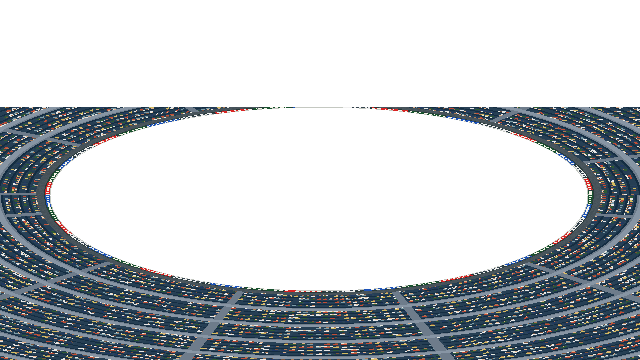
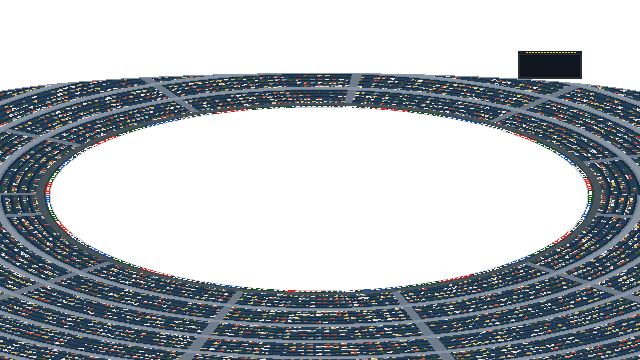
WIP (for testing, not merged): Curve venue scenery around the far boundary too
Extend the generated rim above the far rope with an arched upper terrace, covering the former straight fence and joining the side seating. Reapply the original Lord's and SCG pavilion sprites, Media Centre and scoreboard frames in front of the bowl at their existing positions. Regenerate all six venue overlays and ignore Python helper caches.

Verified gap-free far arcs, transparent playable field pixels, exact pavilion pixels and deterministic regeneration from another directory. All three camera tests and single-file build pass. Browser screenshots reviewed for six venues and a narrow viewport; inner-field pixels stay unchanged. A delivery and fielder drag pass without page errors or failed assets. Camera geometry and simulation remain unchanged.

Changed region(s): [[0.0, 0.1222, 1.0, 0.3056]]

diff --git a/tools/art/make_perimeters.py b/tools/art/make_perimeters.py
@@ -7,6 +7,8 @@ from pathlib import Path
 import math
 import re
 from PIL import Image, ImageDraw, ImageChops
+from make_lords import pavilion as lords_pavilion, media_pod
+from make_scg import pavilion as scg_pavilion
 
 ROOT = Path(__file__).resolve().parents[2]
 W, H = 640, 360
@@ -125,13 +127,46 @@ def pine(d, x, y, height):
                    (x + width, y - 3 + offset // 2)], fill="#183b29" if offset % 8 else "#254a30")
 
 
-def make(venue):
+def far_rim_top(x):
+    """The outer far terrace curves above the rope, covering the old straight fence."""
+    far_rope = ROPE["cy"] - ROPE["ryFar"]
+    across = (x - ROPE["cx"]) / (ROPE["rx"] + 94)
+    return round(far_rope - 34 * math.sqrt(max(0, 1 - across * across)))
+
+
+def landmarks(image, name):
+    """Keep distinctive buildings in front of the bowl, at their existing coordinates."""
+    if name == "lords":
+        image.alpha_composite(lords_pavilion(220, 44), (86, 51))
+        media_pod(image, 452, 51, 98, 24, 95)
+    elif name == "scg":
+        image.alpha_composite(scg_pavilion(170, True).resize((113, 44), Image.Resampling.NEAREST), (65, 42))
+        image.alpha_composite(scg_pavilion(137).resize((93, 39), Image.Resampling.NEAREST), (179, 47))
+    # These small, rectangular structures already contain the correctly placed
+    # score faces. Copy their frames too, so live text stays anchored to the art.
+    boards = {
+        "parklands": ("assets/wide/stands.png", (525, 4, 585, 46), (525, 55)),
+        "parklands-boards": ("assets/wide/stands.png", (525, 4, 585, 46), (525, 55)),
+        "mcg": ("assets/theg/wide/stands.png", (518, 5, 582, 33), (518, 51)),
+        "lords": ("assets/wide/lords-stands.png", (559, 12, 629, 42), (559, 63)),
+        "lakshmi": ("assets/wide/lakshmi-foothills.png", (518, 44, 582, 70), (518, 62)),
+    }
+    if name in boards:
+        path, box, at = boards[name]
+        with Image.open(ROOT / path) as source:
+            image.alpha_composite(source.convert("RGBA").crop(box), at)
+
+
+def make(venue, name):
     image = Image.new("RGBA", (W, H), (0, 0, 0, 0))
     mask = Image.new("L", (W, H), 0)
     pixels, alpha = image.load(), mask.load()
-    top = round(ROPE["cy"] - ROPE["ryFar"])
+    tops = [far_rim_top(x) for x in range(W)]
+    top = min(tops)
     for y in range(top, H):
         for x in range(W):
+            if y < tops[x]:
+                continue
             radius, depth, angle = location(x, y)
             if radius <= 1:
                 continue
@@ -142,6 +177,8 @@ def make(venue):
                 colour = highland_bank(depth, around, x, y)
             else:
                 colour = seating(depth, around, venue)
+            if y == tops[x]:
+                colour = rgb("#596348" if venue["kind"] == "stone" else venue["slab"])
             pixels[x, y] = colour + (255,)
             alpha[x, y] = 255
     # The existing parkland tree art now sits outside the oval instead of obscuring turf.
@@ -158,12 +195,13 @@ def make(venue):
             pine(d, x, y, 23 + x % 7)
         trees.putalpha(ImageChops.multiply(trees.getchannel("A"), mask))
         image.alpha_composite(trees)
+    landmarks(image, name)
     return image
 
 
 def main():
     for name, venue in VENUES.items():
-        image = make(venue)
+        image = make(venue, name)
         path = ROOT / "assets/wide" / f"{name}-perimeter.png"
         path.parent.mkdir(parents=True, exist_ok=True)
         image.save(path, optimize=True)

diff --git a/README.md b/README.md
@@ -239,8 +239,10 @@ in degrees from the striker's stumps: 0 is straight back past the bowler and pos
   eight Himalayan scenery layers; selecting this ground defaults the pitch to DUST BOWL. `tools/art/make_theg.py` makes all of The G's (the floodlit Melbourne stadium, in
   `assets/theg/`). `python3 tools/art/make_perimeters.py` generates all six wrapping wide-view rims,
   reading the boundary ellipse from `src/render/camera.js`. Each ground selects a `wide.perimeter` asset;
-  these layers leave the playing area transparent and keep the full boundary above the HUD. The camera
-  uses the same ellipse for fielders, ball positions and inverse field-placement coordinates; the world
+  these layers leave the playing area transparent and keep the full boundary above the HUD. The rim
+  curves around the far side too, with the original pavilion, Media Centre and scoreboard artwork
+  preserved at its existing coordinates. The generator reuses the Lord's and SCG pavilion helpers.
+  The camera uses the same ellipse for fielders, ball positions and inverse field-placement coordinates; the world
   boundary stays 66 m. A ground with `light` set picks that light on the menu when chosen.
 - **One-file builds:** `python3 tools/build-single.py out.html [--ref main] [--stamp]` bundles the game
   with its images inlined (needs esbuild).
